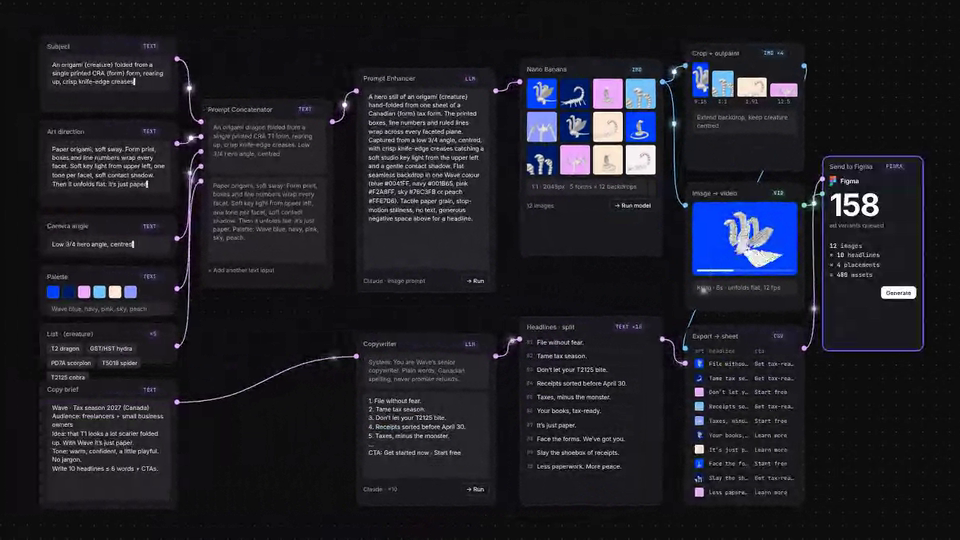
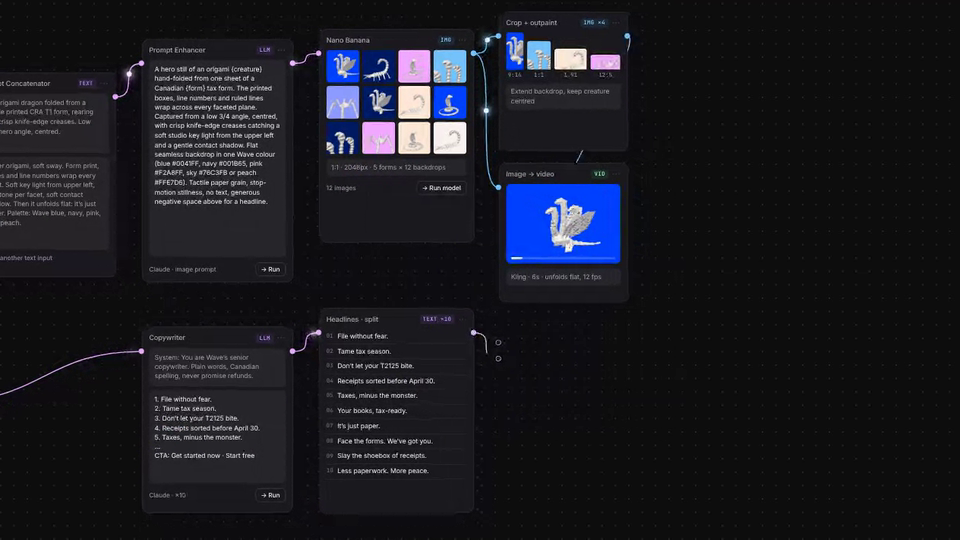
Wave Tax Weave Walkthrough: inline ad creatures raised into frame
Claude-Session: https://claude.ai/code/session_016rpgua64Lx5cLk6vLaSVPx

Changed region(s): [[0.0, 0.0296, 0.9688, 0.9481], [0.625, 0.5926, 0.6875, 0.6222], [0.4688, 0.8889, 0.5, 0.9185]]

diff --git a/wave-tax-weave-walkthrough/index.html b/wave-tax-weave-walkthrough/index.html
@@ -822,7 +822,7 @@ function adHTML(ai,hi,w,h,live){
     s+=`<div class="wm" style="right:${w*.045}px;top:${w*.04}px;font-size:${w*.06}px;color:${fg}">wave</div>`;
     s+=`<div style="position:absolute;left:${w*.07}px;top:${h*.17}px;width:${w*.8}px"><div class="h" style="position:static;font-size:${w*.095}px;color:${fg}">${H}</div><div class="sub" style="position:static;margin-top:${w*.012}px;width:${w*.7}px;font-size:${w*.033}px;color:${fg}">${SUB[hi]||''}</div></div>`;
   }else{ // wide 1.91 / 12:5
-    s+=r>2.2?IMG(`width:${h*1.75}px;left:${w*.76}px;top:${h*.5}px`,h*1.75):IMG(`width:${h*2.4}px;left:${w*.72}px;top:${h*.46}px`,h*2.4);
+    s+=r>2.2?IMG(`width:${h*1.55}px;left:${w*.77}px;top:${h*.34}px`,h*1.55):IMG(`width:${h*2.4}px;left:${w*.72}px;top:${h*.46}px`,h*2.4);
     s+=`<div class="wm" style="left:${h*.1}px;top:${h*.1}px;font-size:${h*.1}px;color:${fg}">wave</div>`;
     s+=`<div class="h" style="left:${h*.1}px;width:${w*.48}px;top:${h*.3}px;font-size:${h*(r>2.2?.15:.13)}px;color:${fg}">${H}</div>`;
     s+=`<div class="cta" style="left:${h*.1}px;bottom:${h*.1}px;font-size:${h*.065}px;padding:${h*.04}px ${h*.075}px;background:${ctaBg};color:${ctaFg}">${CTA[hi]}</div>`;
